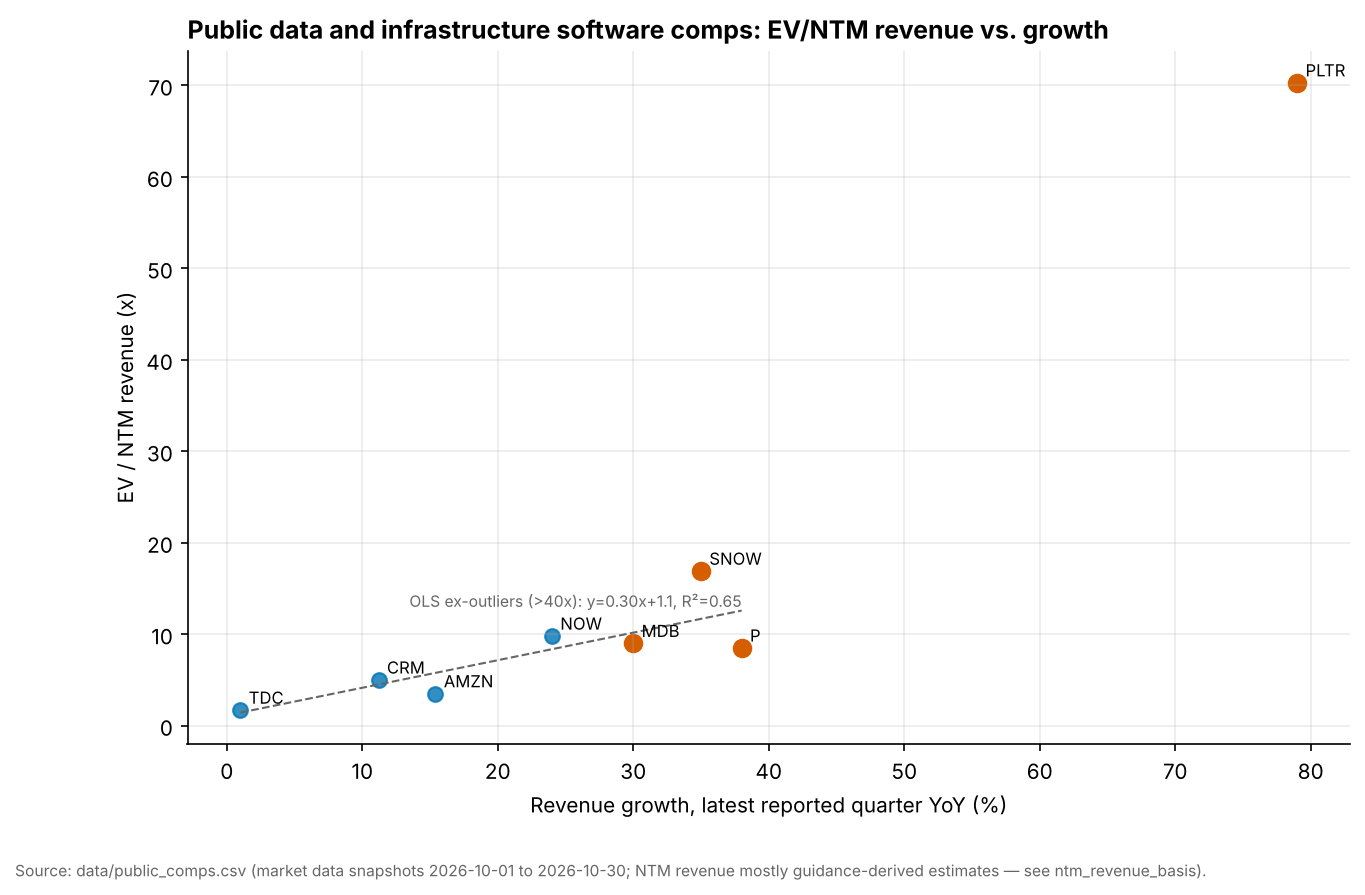
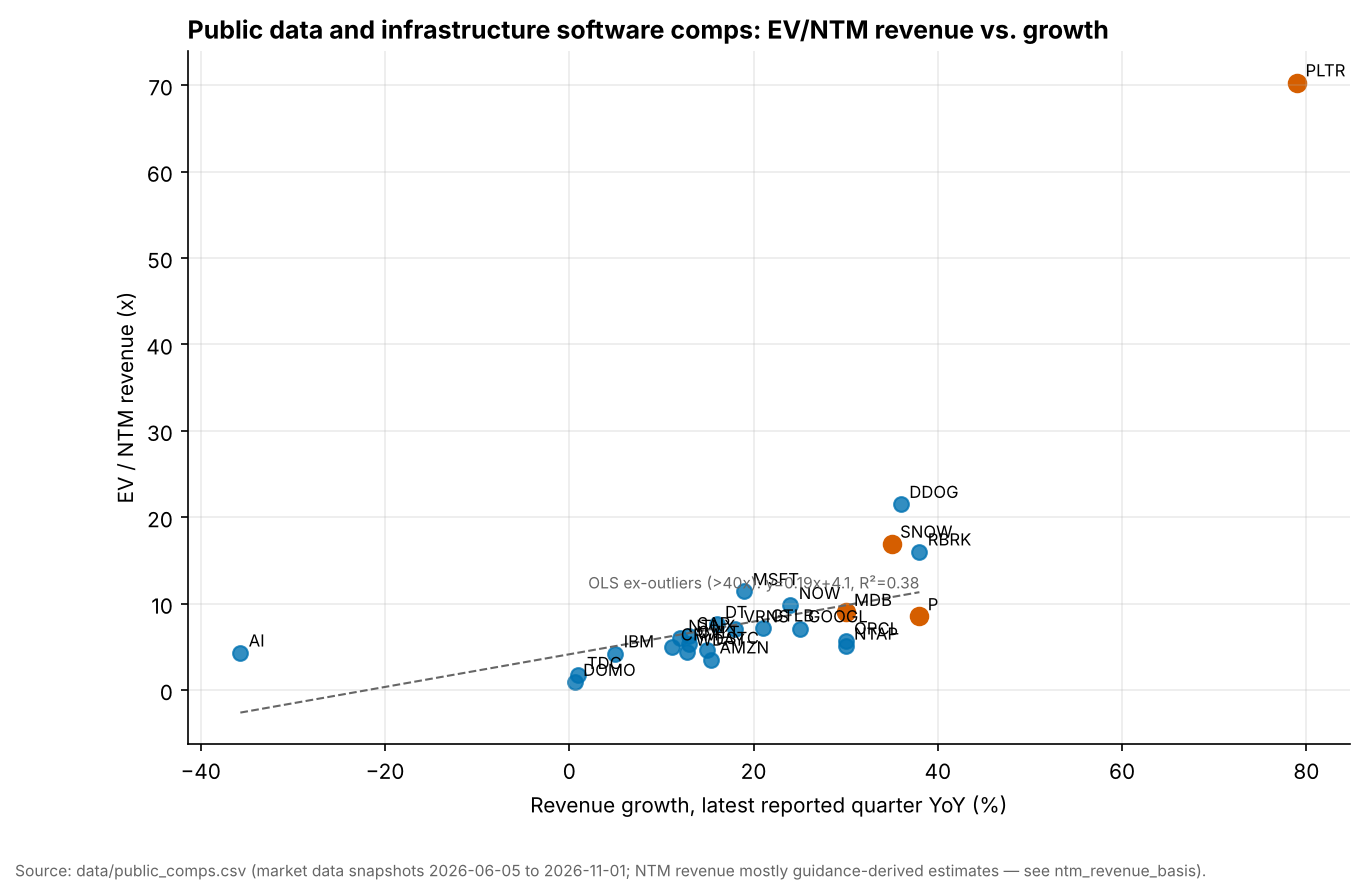
data: complete public comps (26 companies); add Proofpoint–Varonis
Claude-Session: https://claude.ai/code/session_015j6Et44vVa5dK62bXN3KKX

diff --git a/meta/research-notes-financials.md b/meta/research-notes-financials.md
@@ -40,3 +40,42 @@ All sources retrieved 2026-11-01.
 - Consensus NTM revenue for all names. Rows use FY-guidance-derived figures or TTM proxies.
 - Databricks run-rate disclosures, Confluent annual 2021–2025, Oracle OCI revenue and RPO, Elastic, Datadog annual revenue, Teradata total and cloud ARR, Palantir US commercial growth.
 - Snowflake quarterly GAAP total gross margin, quarterly SBC, and Q3 FY2026 KPIs. MongoDB NRR and Q1 FY2027 detail.
+
+## Comps gap-fill (2026-11-01)
+
+Method: WebSearch excerpts only (WebFetch/HTTP blocked). Market cap/EV from stockanalysis.com snapshots (dates in `as_of`; undated snapshots use the retrieval date and are flagged in notes). Revenue, growth and guidance from company releases as quoted in search excerpts. Re-check against filings before publication. [VERIFY] All sources retrieved 2026-11-01.
+
+| Publisher | Title | URL | Published |
+|---|---|---|---|
+| SAP / SEC | Form 6-K Ex. 99.1, Q3 2026 quarterly statement | https://www.sec.gov/Archives/edgar/data/0001000184/000110465926118617/tm2628113d1_ex99-1.htm | 2026-10-21 |
+| Workday IR | Workday Announces Fiscal 2027 Second Quarter Financial Results | https://investor.workday.com/news-and-events/press-releases/news-details/2026/Workday-Announces-Fiscal-2027-Second-Quarter-Financial-Results/default.aspx | 2026-08-27 |
+| IBM / SEC | Form 8-K Ex. 99.1, Q3 2026 results | https://www.sec.gov/Archives/edgar/data/0000051143/000005114326000093/ibm-20261021xex991.htm | 2026-10-21 |
+| IBM / SEC | Form 10-Q, Q1 2026 (Confluent close 2026-03-17) | https://www.sec.gov/Archives/edgar/data/0000051143/000005114326000038/ibm-20260331.htm | 2026 |
+| Confluent / SEC | Form 10-K, FY2025 | https://www.sec.gov/Archives/edgar/data/1699838/000169983826000006/cflt-20251231.htm | 2026 |
+| Varonis IR | Varonis Announces Second Quarter 2026 Financial Results | https://s203.q4cdn.com/582009126/files/doc_news/Varonis-Announces-Second-Quarter-2026-Financial-Results-2026.pdf | 2026-07-28 |
+| SiliconANGLE | Proofpoint agrees to buy data security company Varonis for $6.3B in cash | https://siliconangle.com/2026/10/15/proofpoint-agrees-to-buy-data-security-company-varonis-for-6-3b-in-cash/ | 2026-10-15 |
+| Constellation Research | Progress Software buys Domo's AI and data platform business for $400 million | https://www.constellationr.com/insights/news/progress-software-buys-domos-ai-and-data-platform-business-400-million | 2026-07 |
+| Domo (Business Wire) | Domo Announces Timing for Second Quarter Fiscal 2027 Financial Results and Provides Transaction Timing Update | https://secure.businesswire.com/news/home/20260831807380/en/Domo-Announces-Timing-for-Second-Quarter-Fiscal-2027-Financial-Results-and-Provides-Transaction-Timing-Update | 2026-08-31 |
+| Benzinga | Domo earnings forecasts (FY2027 guidance summary) | https://www.benzinga.com/quote/DOMO/earnings-forecasts | 2026 |
+| NetApp | NetApp Reports First Quarter of Fiscal Year 2027 Results | https://netapp.com/newsroom/press-releases/news-rel-20260902-results-607632 | 2026-09-02 |
+| Nutanix / SEC | Form 8-K Ex. 99.1, Q4 and FY2026 results | https://www.sec.gov/Archives/edgar/data/0001618732/000117184326005752/exh_991.htm | 2026-08-26 |
+| Dynatrace IR | Q1 FY2027 earnings release (Ex. 99) | https://ir.dynatrace.com/sec-filings/all-sec-filings/content/0001773383-26-000049/q1fy27-earningsreleaseex99.htm | 2026-08-05 |
+| Rubrik | Rubrik Reports Second Quarter Fiscal Year 2027 Financial Results | https://www.rubrik.com/company/newsroom/press-releases/26/rubrik-reports-second-quarter-fiscal-year-2027-financial-results | 2026-08 |
+| Commvault (via Finviz/PR Newswire) | Commvault Announces Second Quarter Fiscal 2027 Financial Results | https://finviz.com/news/408629/commvault-announces-second-quarter-fiscal-2027-financial-results | 2026-10-27 |
+| StorageNewsletter | Commvault fiscal 2Q27 results (total revenue ~$312M) | https://www.storagenewsletter.com/?p=306407 | 2026-10 |
+| GitLab (Business Wire) | GitLab Reports Second Quarter Fiscal Year 2027 Financial Results | https://secure.businesswire.com/news/home/20260901768402/en/GitLab-Reports-Second-Quarter-Fiscal-Year-2027-Financial-Results | 2026-09-01 |
+| C3.ai | C3 AI Announces Fiscal First Quarter 2027 Results | https://c3.ai/news/c3-ai-announces-fiscal-first-quarter-2027-results | 2026-09-02 |
+| Datadog / SEC | Form 8-K Ex. 99.1, Q2 2026 results | https://www.sec.gov/Archives/edgar/data/0001561550/000162828026053829/ex-991x20260630x8k.htm | 2026-08-06 |
+| Elastic (via 01net) | Elastic Reports First Quarter Fiscal 2027 Financial Results | https://www.01net.it/elastic-reports-first-quarter-fiscal-2027-financial-results/ | 2026-08-27 |
+| StorageNewsletter | Oracle fiscal 1Q27 financial results | https://storagenewsletter.com/2026/09/23/oracle-fiscal-1q27-financial-results | 2026-09-23 |
+| Runtime Wire | Microsoft revenue hits $92.3 billion as Azure growth accelerates to 48% | https://runtimewire.com/article/microsoft-revenue-hits-92-3-billion-as-azure-growth-accelerates-to-48 | 2026-10 |
+| Alphabet / SEC | Form 8-K Ex. 99.1, Q3 2026 results | https://www.sec.gov/Archives/edgar/data/0001652044/000165204426000080/googexhibit991q32026.htm | 2026-10-28 |
+| StockAnalysis.com | Statistics / market-cap / ratios / revenue pages for SAP, WDAY, IBM, VRNS, DOMO, NTAP, NTNX, DT, RBRK, CVLT, GTLB, AI, MSFT, GOOGL | https://stockanalysis.com/stocks/{ticker}/ | snapshots 2026-06-05 to 2026-10-30 |
+
+### Notable findings
+
+- **Two new take-privates or asset sales in the comp set.** Proofpoint (backed by Thoma Bravo) agreed on 2026-10-15 to buy Varonis for $49.75/sh in cash, about $6.3B and roughly 8.5x FY2026 revenue guidance. Progress agreed in July 2026 to buy Domo's operating assets for $400M, about 1.3x revenue. Domo carries a going-concern warning.
+- **Confluent precedent.** IBM paid about $11B EV, or about 9.4x FY2025 revenue of $1,167M (+21%). The deal closed 2026-03-17. IBM's 10-Q reports a purchase price of $11.6B.
+- **Hyperscaler cloud is accelerating.** Google Cloud grew 103% to $30.7B in Q3 2026. Azure grew 48% in Q1 FY2027. Oracle's OCI grew 121% in Q1 FY2027, and its RPO is $664B.
+- **Infrastructure with AI exposure.** NetApp grew 30% in Q1 FY2027, but its non-GAAP gross margin guidance is down to 67–68% on component costs. Rubrik grew 38% and trades at about 16x EV/FY-guide revenue, the highest multiple in the security and data-protection group.
+- **Gaps that remain:** gross margin for SAP, Workday, IBM, Nutanix, Dynatrace, Rubrik, Commvault, C3.ai, Datadog, Elastic and Oracle; the C3.ai market-cap snapshot is stale (2026-06-05); the Domo, Varonis and NetApp market-data snapshots are undated or older; Commvault total-revenue guidance; Amazon AWS growth. [VERIFY]
